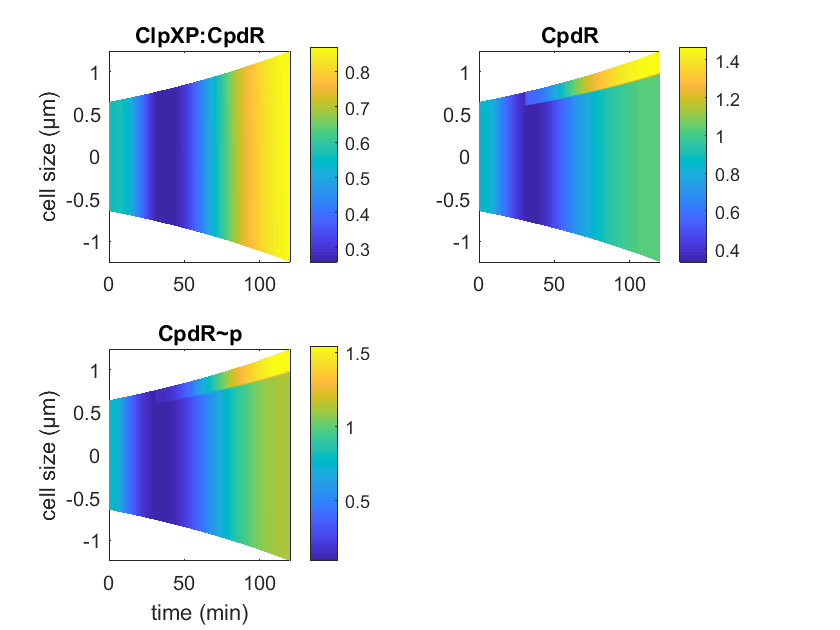
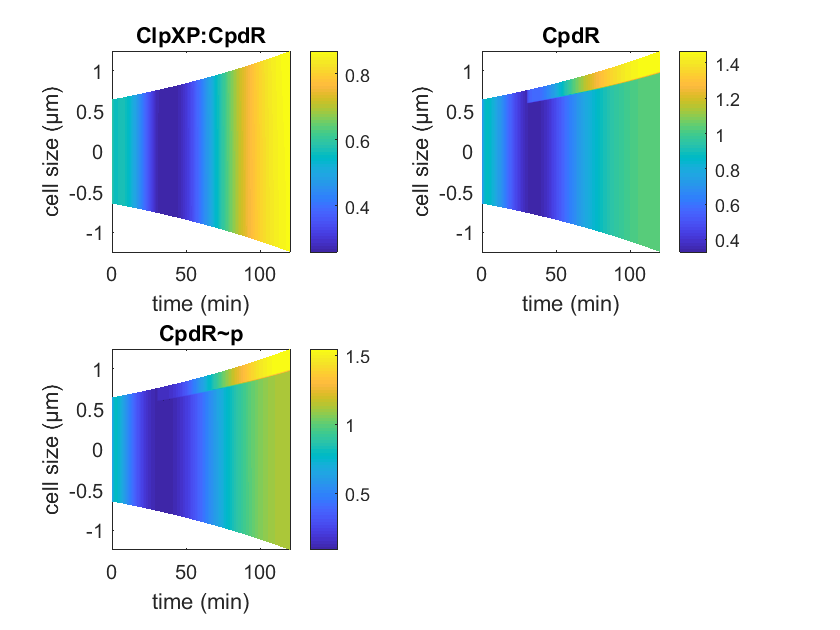
edit figure

diff --git a/Code/main_events.m b/Code/main_events.m
@@ -95,6 +95,7 @@ shading interp
 colorbar
 title('ClpXP:CpdR')
 xlim([0 120])
+xlabel('time (min)')
 label_str = strcat('cell size (',char(956),'m)');
 ylabel(label_str) 
 
@@ -103,6 +104,9 @@ pcolor(tout, M, CpdR)
 shading interp
 colorbar
 xlim([0 120])
+xlabel('time (min)')
+label_str = strcat('cell size (',char(956),'m)');
+ylabel(label_str) 
 title('CpdR')
 
 ax3 = subplot(2,2,3);
@@ -112,6 +116,7 @@ colorbar
 xlim([0 120])
 xlabel('time (min)')
 title('CpdR~p')
+label_str = strcat('cell size (',char(956),'m)');
 ylabel(label_str) 
 
 
